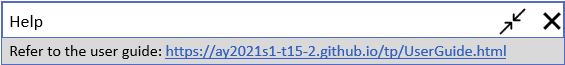
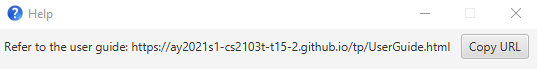
edit HelpMessage and AddCard sections in UG

diff --git a/docs/UserGuide.md b/docs/UserGuide.md
@@ -168,7 +168,6 @@ Example:
 * `deleteDeck 1` will delete the deck at index 1 and all its corresponding cards.
 
 Outcome Expected:
-Outcome Expected:
 
 ![DeleteDeckBefore](images/DeleteDeckBefore.png)
 
@@ -222,13 +221,13 @@ Outcome Expected:
 
 Shows a message explaining how to access the help page.
 
-![help message](images/helpMessage.png)
-
 Format: `help`
 
 Outcome Expected:
 - Success message displayed is: `Opened help window.`
 - Help Window pop up with the link to user guide.
+
+![help message](images/helpMessage.png)
 
 ### Adding a flashcard : `addCard`
 
@@ -240,7 +239,9 @@ Examples:
 * `addCard q/When did Singapore gain independence? a/9th August 1965`
 
 Outcome Expected:
-- Success message displayed is: `New flashcard added: Question: When did Singapore gain independence? Answer: 9th August 1965 Tag: Singapore.`
+![Add Card Before](images/AddCardBefore.png)
+
+![Add Card After](images/AddCardAfter.png)
 
 ### Editing a flashcard : `editCard`
 
